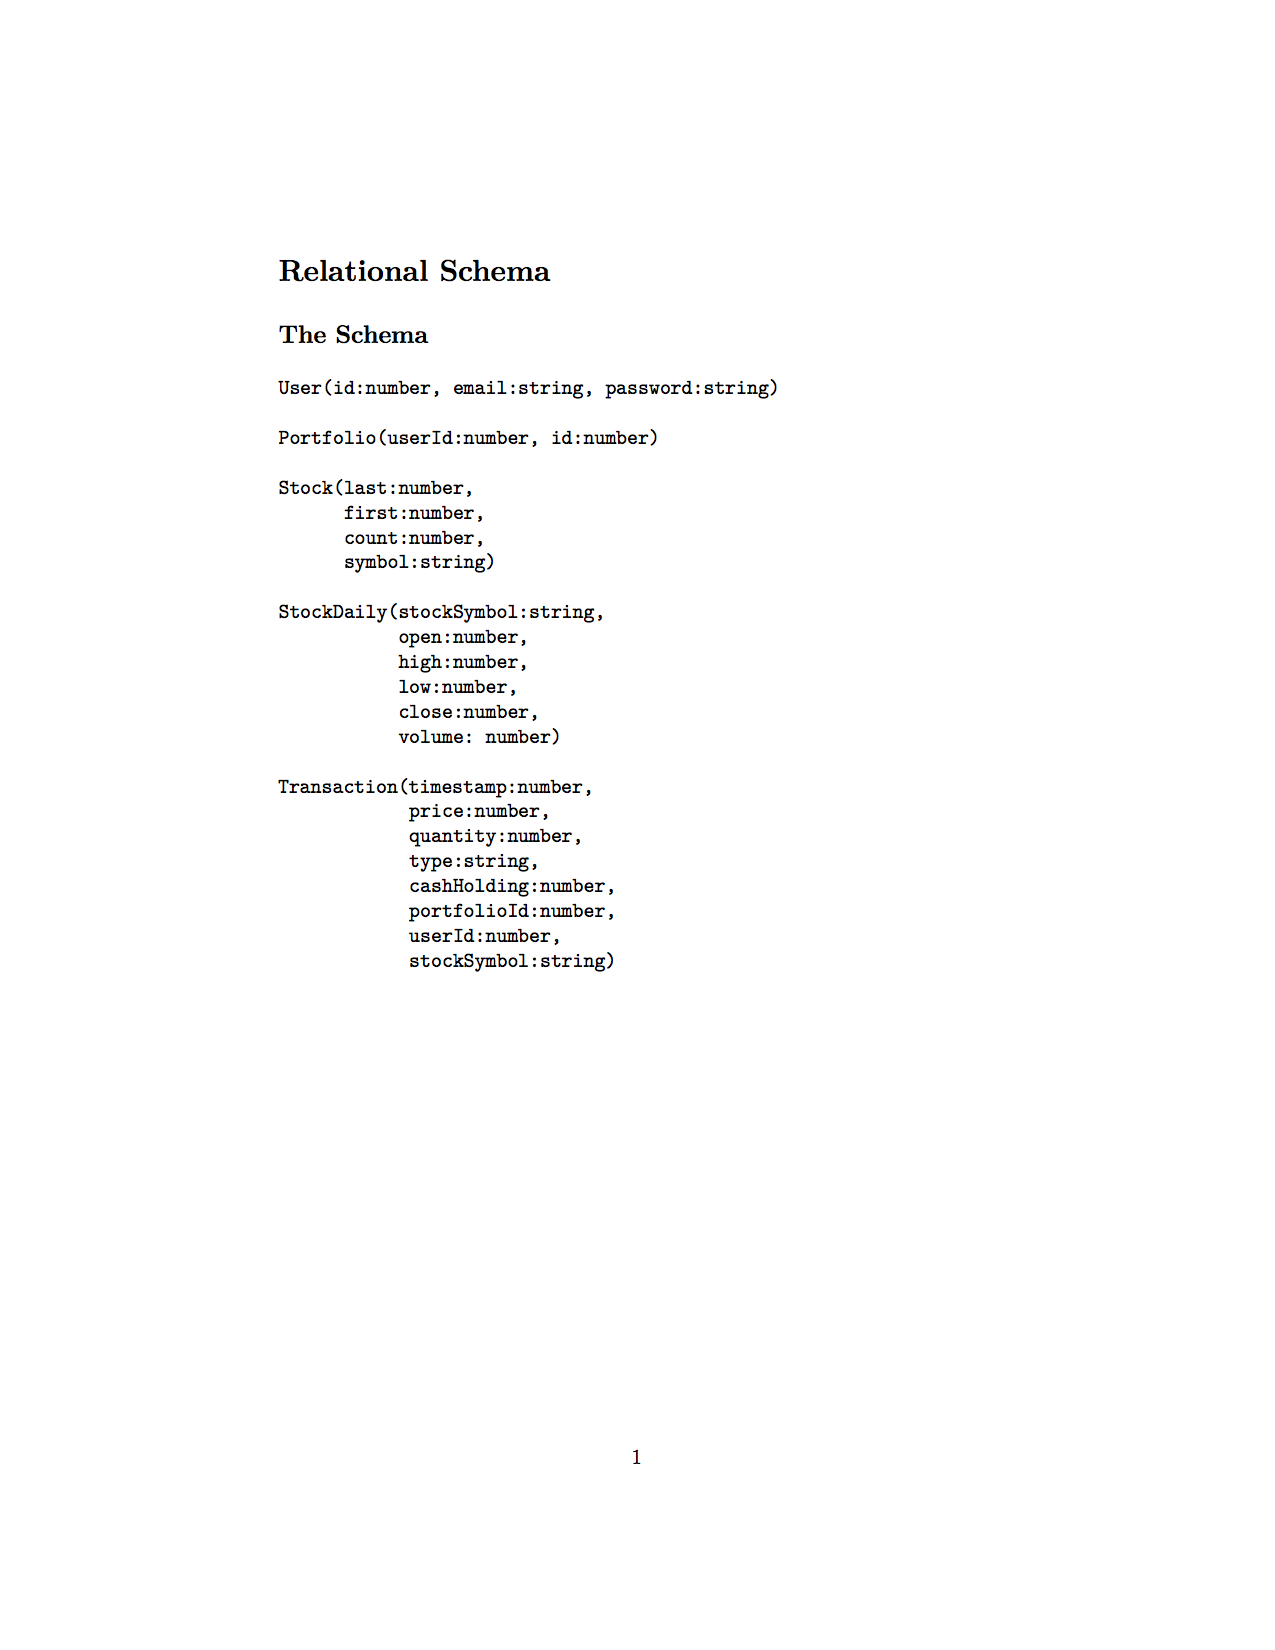
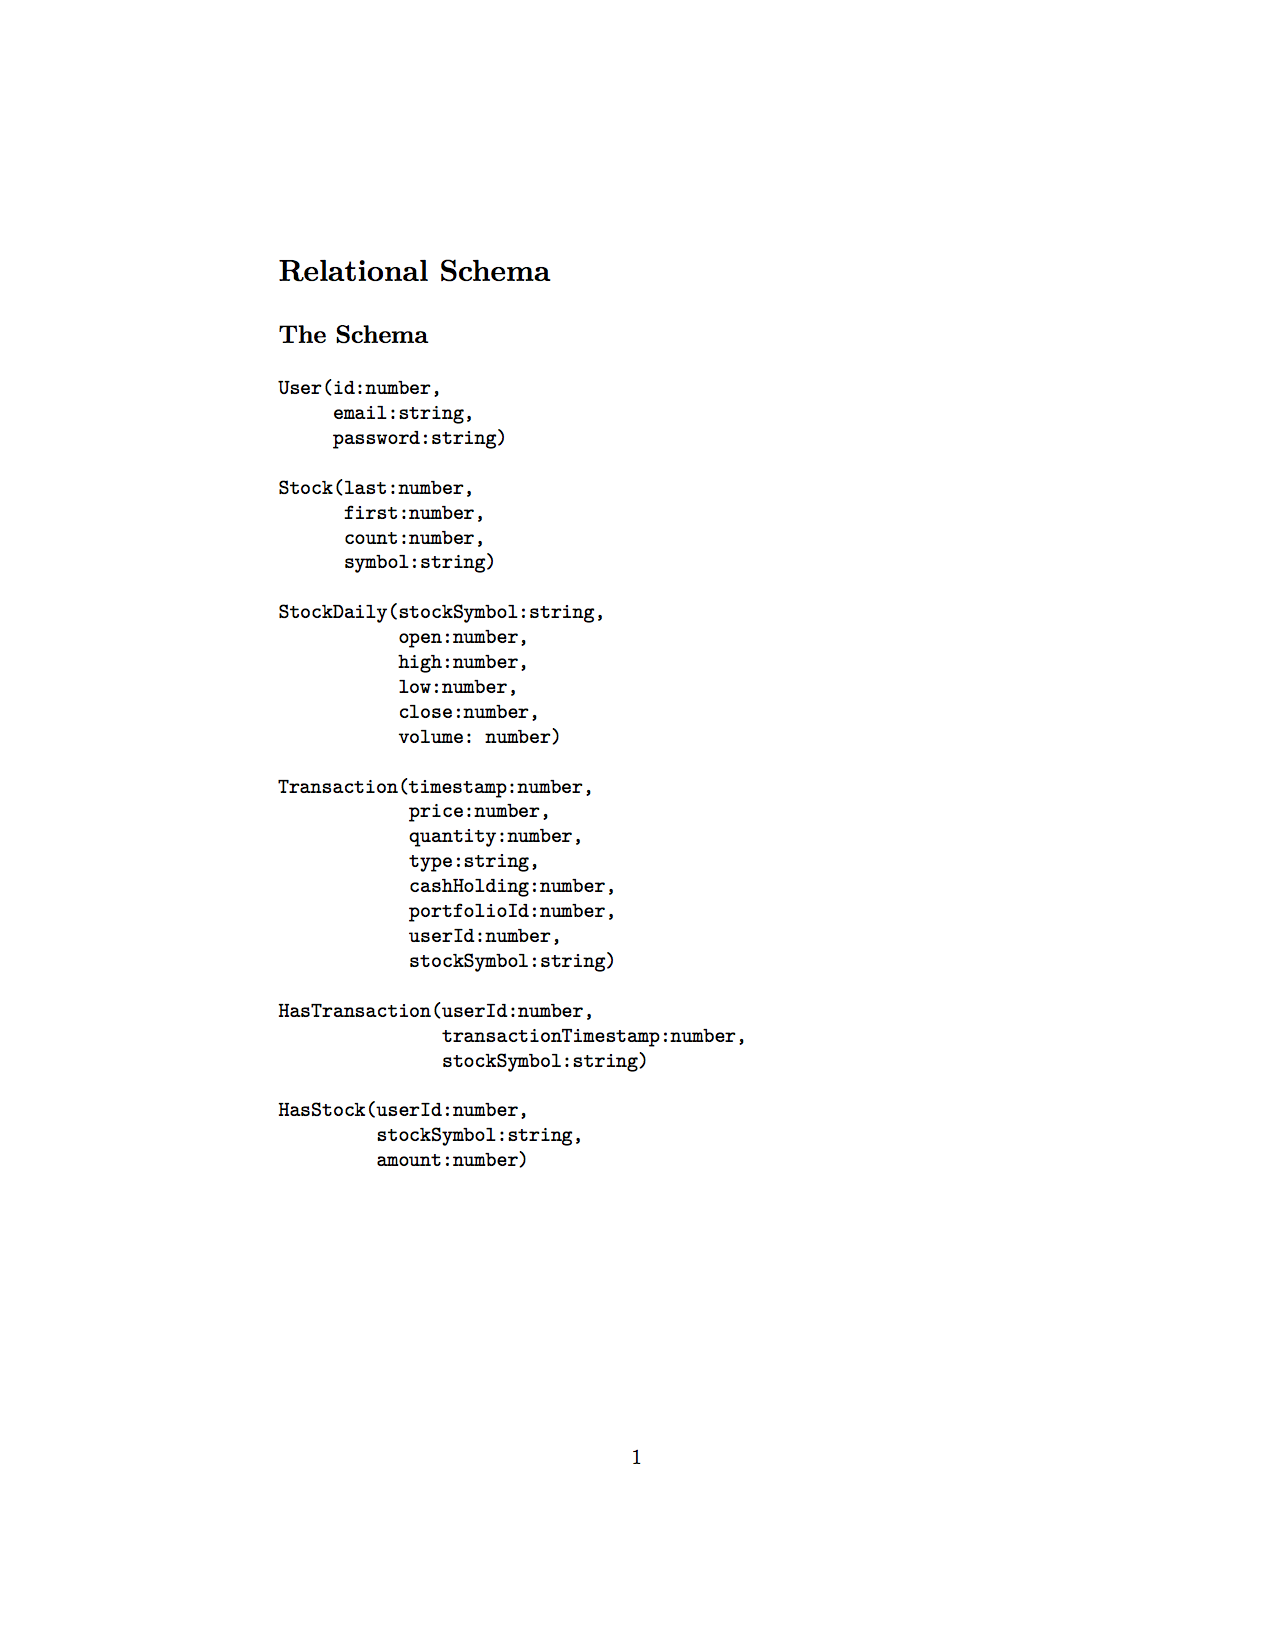
updated relational schema

Changed region(s): [[0.2141, 0.5873, 0.5812, 0.7109], [0.2141, 0.2164, 0.4588, 0.2782], [0.4588, 0.2164, 0.6118, 0.2782]]

diff --git a/planning/relational.md b/planning/relational.md
@@ -3,9 +3,9 @@
 ## The Schema
 
 ```
-User(id:number, email:string, password:string)
-
-Portfolio(userId:number, id:number)
+User(id:number, 
+     email:string, 
+     password:string)
 
 Stock(last:number, 
       first:number, 
@@ -27,5 +27,13 @@ Transaction(timestamp:number,
             portfolioId:number, 
             userId:number,
             stockSymbol:string)
+
+HasTransaction(userId:number,
+               transactionTimestamp:number,
+               stockSymbol:string)
+
+HasStock(userId:number,
+         stockSymbol:string,
+         amount:number)
 ```
 
